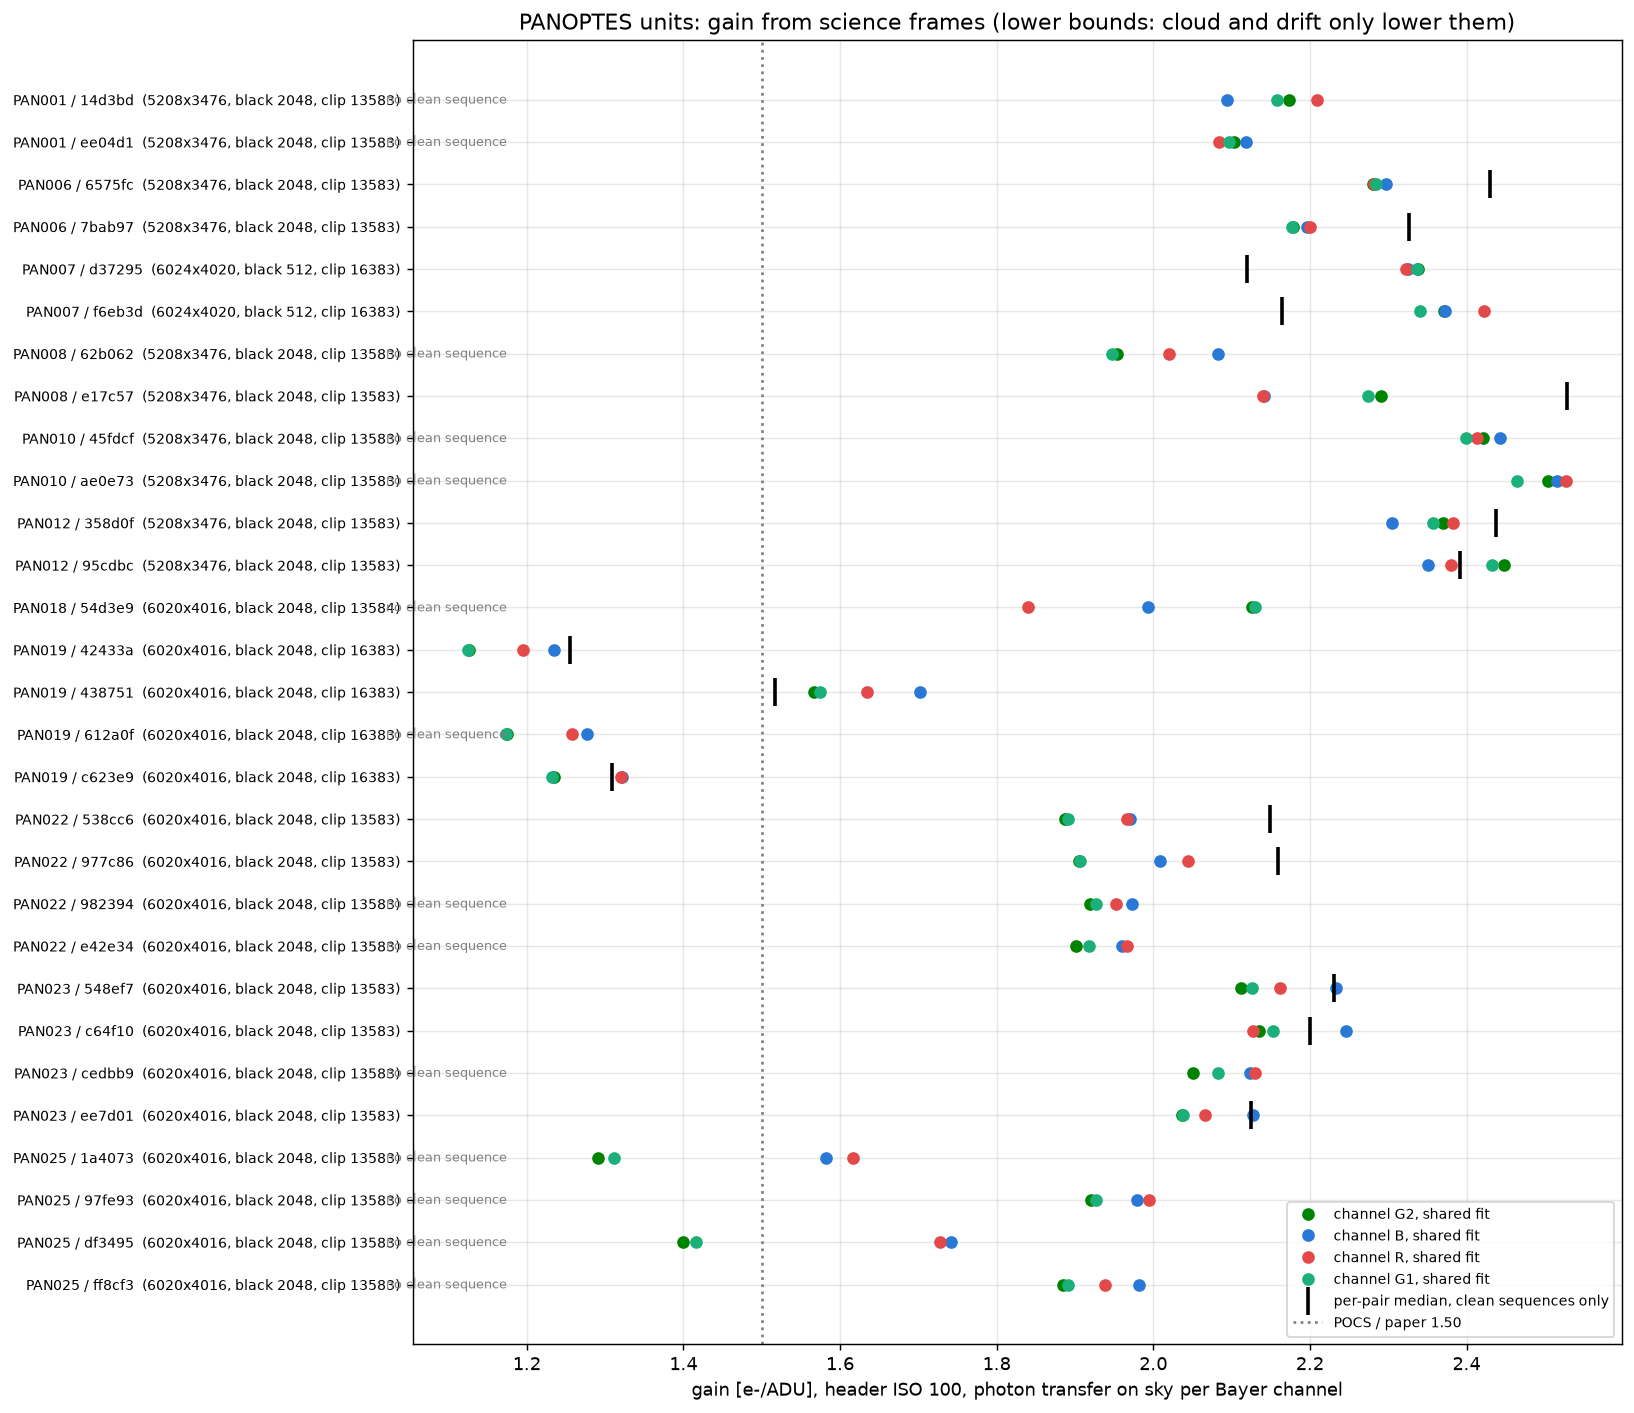
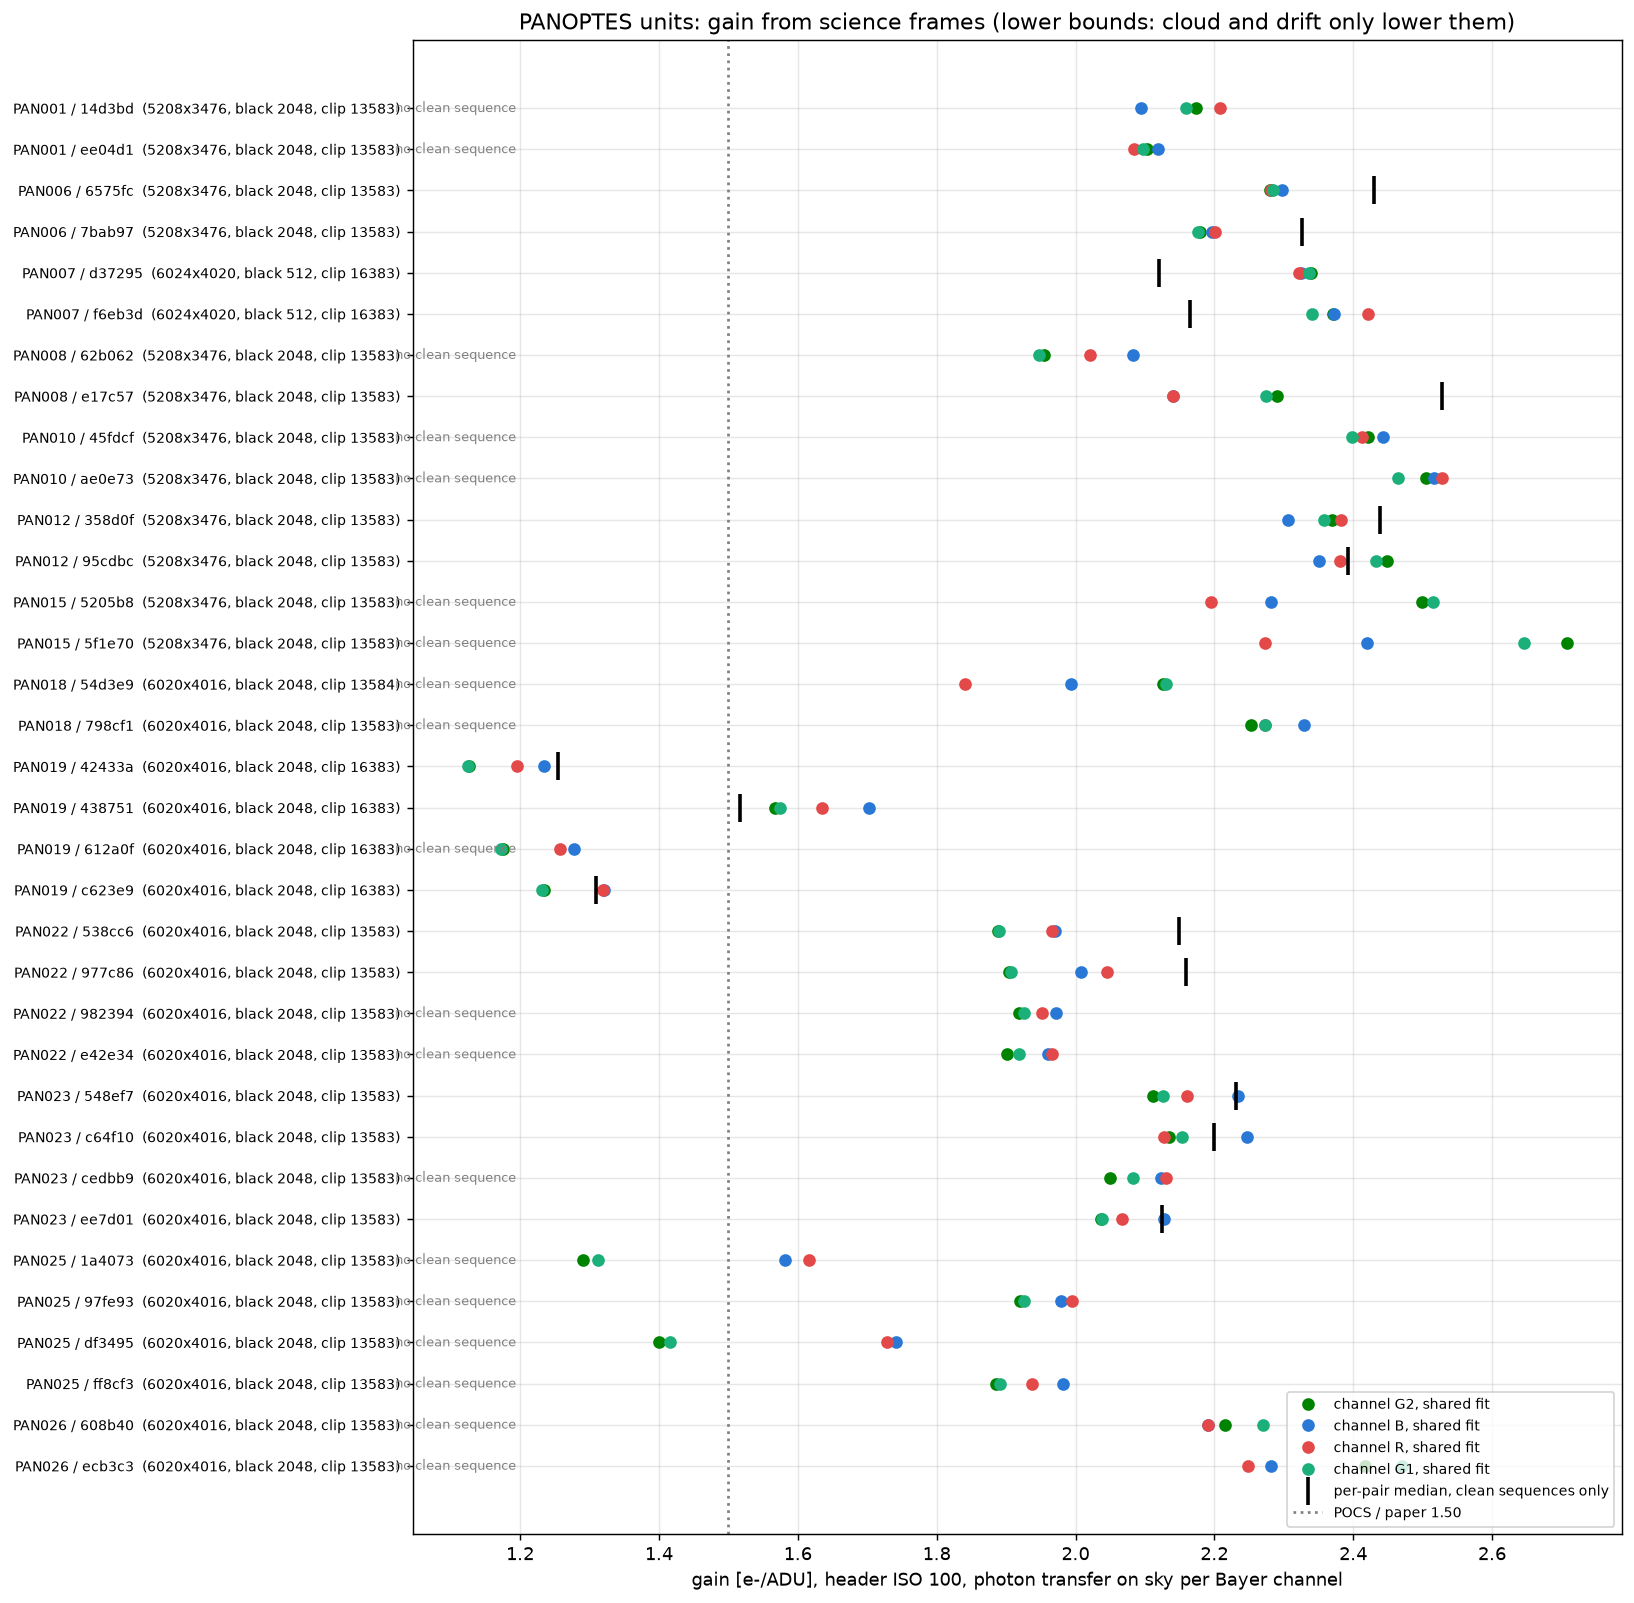
Add PAN015, PAN018 and PAN026 to the units gain table
Six more cameras, all unscaled, clipping at 13583 with black 2048:
PAN015's two 100D-class bodies at 2.4 on clean sequences, PAN026's two
24 MP bodies at 2.3, PAN018's two from one dark sequence each at
1.8-2.3. 34 cameras on 14 units now; nothing at 1.50.

Claude-Session: https://claude.ai/code/session_01Y3A3VJMif68CTkis9iSMb4

diff --git a/plans/data-contract.md b/plans/data-contract.md
@@ -429,17 +429,18 @@ read noise, black level and the measured clip. Four numbers per camera uid,
 across 37 cameras. For legacy frames black has to be determined camera by
 camera, since no header carries it and the archive holds no bias frames.
 `scripts/measure_gain.py` measures all four from a camera's own science frames.
-Run across every camera with usable archive data -- 28 cameras on 11 units,
+Run across every camera with usable archive data -- 34 cameras on 14 units,
 `plans/figures/gain_units.png` and `gain_units.csv` -- it finds no camera at
 Table 2's 1.50 at a real ISO 100. The 1.50 is the POCS class constant (6.3),
 originally from PAN001, and PAN001's own cameras measure 2.1--2.4. Three sensor
 families show up, and the number is a property of the family, not the unit:
 
-- **5208x3476 (EOS 100D class; PAN001, 006, 008, 010, 012)**: black 2048, clip
-  13583, gain 2.1--2.5 per Bayer channel across ten cameras, with clean
-  sequences giving 2.3--2.6.
-- **6020x4016 (24 MP class; PAN019, 022, 023, 025)**: black 2048, clip 13583,
-  gain 1.9--2.3 on the fourteen cameras whose raw clips at 13583.
+- **5208x3476 (EOS 100D class; PAN001, 006, 008, 010, 012, 015)**: black 2048,
+  clip 13583, gain 2.1--2.5 per Bayer channel across twelve cameras, with
+  clean sequences giving 2.3--2.6.
+- **6020x4016 (24 MP class; PAN018, 019, 022, 023, 025, 026)**: black 2048,
+  clip 13583, gain 1.9--2.3 on the eighteen cameras whose raw clips at 13583
+  (PAN018 from one dark sequence per camera, so a weak number).
 - **6024x4020 (PAN007, POCS 0.8, 2024--25)**: black 512, clip 16383, gain
   2.1--2.4.
 
